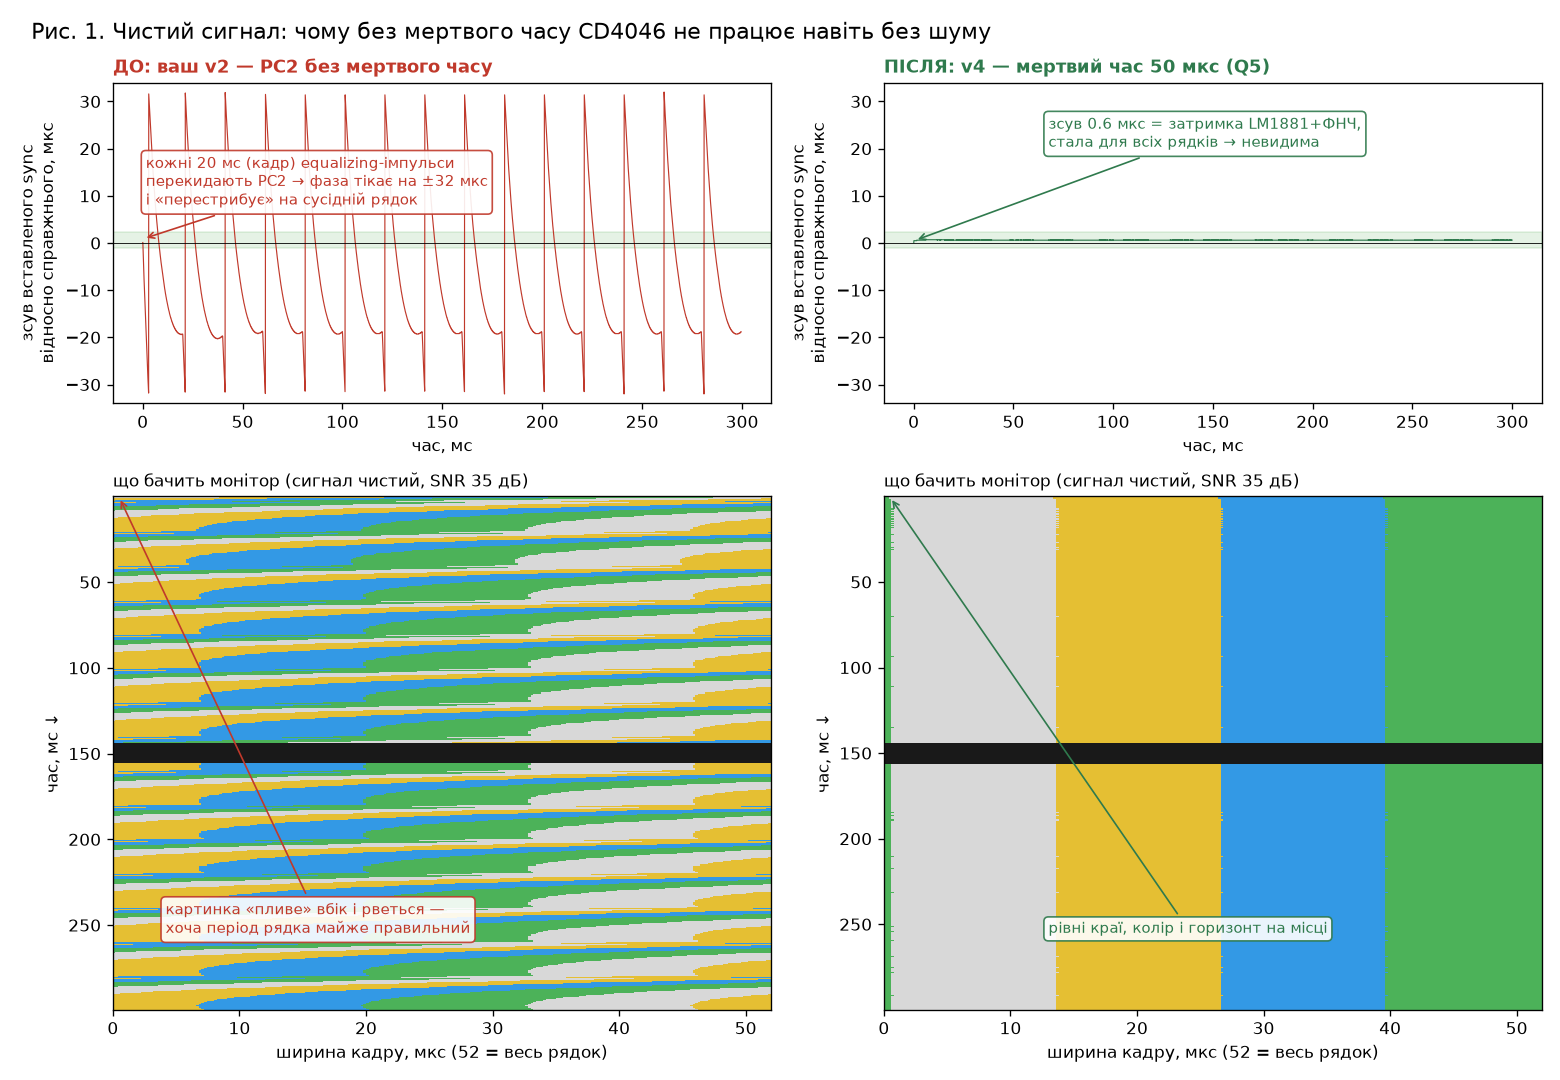
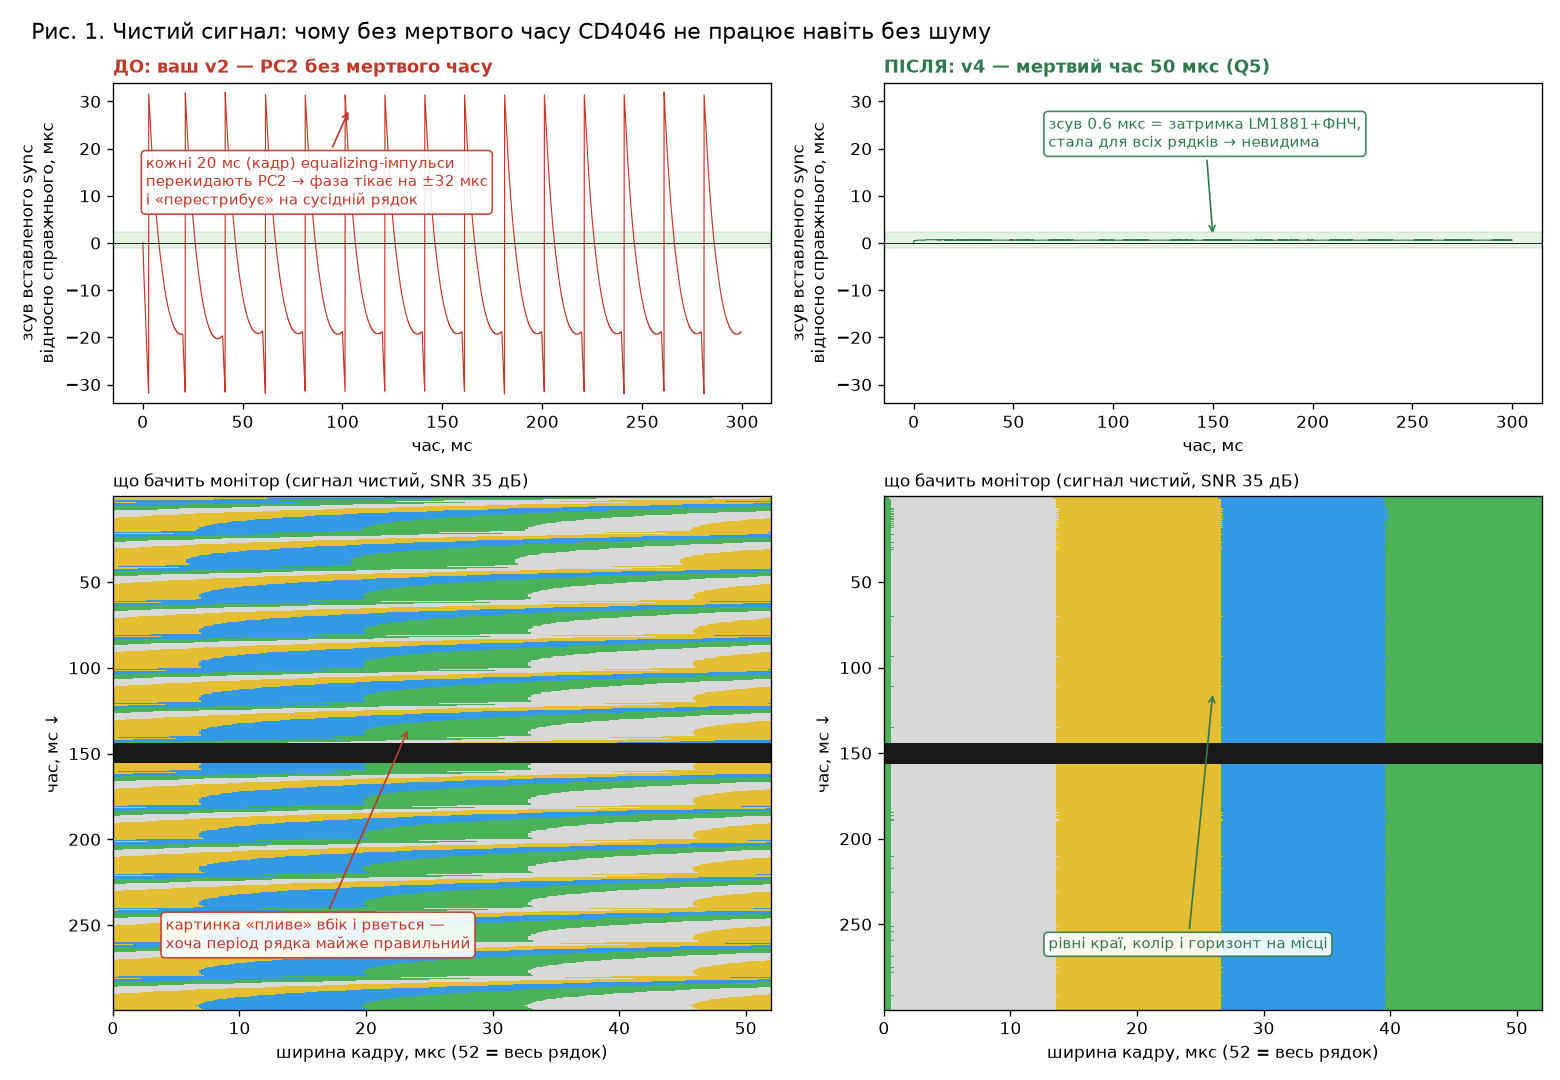
Fix annotation anchors on composite figures
Claude-Session: https://claude.ai/code/session_0153a1RiVx8dyRJS5VkSszgM

Changed region(s): [[0.0923, 0.825, 0.3077, 0.8861], [0.6462, 0.825, 0.8615, 0.8861]]

diff --git a/analog-video-sync-recovery/simulation/make_figures.py b/analog-video-sync-recovery/simulation/make_figures.py
@@ -39,7 +39,7 @@ def panel_screen(ax,d,title):
     return blue.sum()
 
 def note(ax,txt,xy,xytext,color="#C0392B"):
-    ax.annotate(txt,xy=xy,xytext=xytext,textcoords="axes fraction",fontsize=9,color=color,
+    ax.annotate(txt,xy=xy,xycoords="axes fraction",xytext=xytext,textcoords="axes fraction",fontsize=9,color=color,
                 arrowprops=dict(arrowstyle="->",color=color,lw=1),bbox=dict(boxstyle="round,pad=.3",fc="white",ec=color,alpha=.9))
 
 # ---------- Рис. 1: чистий сигнал, до/після (мертвий час) ----------
@@ -51,10 +51,10 @@ for j,(d,ttl,c) in enumerate([(A0,"ДО: ваш v2 — PC2 без мертвог
     ax[0,j].set_title(ttl,fontsize=11,fontweight="bold",loc="left",color=c); ax[0,j].set_ylabel("зсув вставленого sync\nвідносно справжнього, мкс"); ax[0,j].set_xlabel("час, мс")
     ax[0,j].axhline(0,color="k",lw=.5)
     panel_screen(ax[1,j],d,"що бачить монітор (сигнал чистий, SNR 35 дБ)")
-note(ax[0,0],"кожні 20 мс (кадр) equalizing-імпульси\nперекидають PC2 → фаза тікає на ±32 мкс\nі «перестрибує» на сусідній рядок",(0.35,0.9),(0.05,0.62))
-note(ax[0,1],"зсув 0.6 мкс = затримка LM1881+ФНЧ,\nстала для всіх рядків → невидима",(0.5,0.53),(0.25,0.8),"#2F7A4D")
-note(ax[1,0],"картинка «пливе» вбік і рветься —\nхоча період рядка майже правильний",(0.5,0.5),(0.08,0.15))
-note(ax[1,1],"рівні краї, колір і горизонт на місці",(0.5,0.6),(0.25,0.15),"#2F7A4D")
+note(ax[0,0],"кожні 20 мс (кадр) equalizing-імпульси\nперекидають PC2 → фаза тікає на ±32 мкс\nі «перестрибує» на сусідній рядок",(0.36,0.92),(0.05,0.62))
+note(ax[0,1],"зсув 0.6 мкс = затримка LM1881+ФНЧ,\nстала для всіх рядків → невидима",(0.5,0.52),(0.25,0.8),"#2F7A4D")
+note(ax[1,0],"картинка «пливе» вбік і рветься —\nхоча період рядка майже правильний",(0.45,0.55),(0.08,0.12))
+note(ax[1,1],"рівні краї, колір і горизонт на місці",(0.5,0.62),(0.25,0.12),"#2F7A4D")
 fig.suptitle("Рис. 1. Чистий сигнал: чому без мертвого часу CD4046 не працює навіть без шуму",fontsize=13,x=0.02,ha="left")
 fig.tight_layout(); fig.savefig("results/FIG1_clean_before_after.png",dpi=120); plt.close(fig)
 
@@ -70,12 +70,12 @@ for j,(d,ttl,c) in enumerate([(BW,"ДО: VCO 10–20 кГц (як у v2)","#C039
     ax[1,j].plot(tm,d["err"],lw=.7,color=c); ax[1,j].axhspan(-5,5,color="g",alpha=.1); ax[1,j].set_ylim(-20,48); ax[1,j].set_ylabel("похибка періоду рядка, %"); ax[1,j].axvspan(100,200,color="0.6",alpha=.25)
     nb=panel_screen(ax[2,j],d,"що бачить монітор (100–200 мс: сигналу немає, на вході сніг)")
     ax[1,j].set_xlabel("час, мс")
-note(ax[0,0],"сірий = пропадання: шум накачує PC2,\nVCO падає до 10.9 кГц (−30 %)",(0.55,0.15),(0.05,0.75))
-note(ax[0,1],"той самий шум, але діапазон VCO\nне пускає далі ніж −2 %",(0.6,0.42),(0.05,0.15),"#2F7A4D")
-note(ax[1,0],"32 рядки підряд поза ±5 % →\nдекодер втрачає lock → синій екран",(0.5,0.6),(0.05,0.85))
-note(ax[1,1],"макс. 2 % — картинка злегка скошена,\nале декодер тримає",(0.6,0.55),(0.3,0.85),"#2F7A4D")
-note(ax[2,0],"синій екран і ще ~50 мс\nхаосу після повернення сигналу",(0.5,0.5),(0.1,0.12))
-note(ax[2,1],"сніг замість синього;\n~50 мс «хитання» після повернення, далі картинка на місці",(0.5,0.72),(0.05,0.9),"#2F7A4D")
+note(ax[0,0],"сірий = пропадання: шум накачує PC2,\nVCO падає до 10.9 кГц (−30 %)",(0.6,0.12),(0.05,0.72))
+note(ax[0,1],"той самий шум, але діапазон VCO\nне пускає далі ніж −2 %",(0.6,0.7),(0.05,0.15),"#2F7A4D")
+note(ax[1,0],"32 рядки підряд поза ±5 % →\nдекодер втрачає lock → синій екран",(0.45,0.55),(0.03,0.85))
+note(ax[1,1],"макс. 2 % — картинка злегка скошена,\nале декодер тримає",(0.6,0.33),(0.3,0.85),"#2F7A4D")
+note(ax[2,0],"синій екран і ще ~50 мс\nхаосу після повернення сигналу",(0.5,0.5),(0.08,0.12))
+note(ax[2,1],"сніг замість синього;\n~50 мс «хитання» після повернення, далі картинка на місці",(0.5,0.5),(0.05,0.9),"#2F7A4D")
 fig.suptitle("Рис. 2. Пропадання сигналу на 100 мс (5 кадрів): чому діапазон VCO треба обмежити",fontsize=13,x=0.02,ha="left")
 fig.tight_layout(); fig.savefig("results/FIG2_dropout_before_after.png",dpi=120); plt.close(fig)
 
@@ -92,9 +92,9 @@ for j,(d,ttl,sub) in enumerate([(C,"SNR падає 35 → 3 дБ за 300 мс",
         if a[k]>=0.5 and a[k-1]<0.5: ax[0,j].axvspan(t0,t[k],color="0.6",alpha=.25)
     panel_screen(ax[1,j],d,"екран: "+sub)
     ax[0,j].set_xlabel("час, мс")
-note(ax[0,0],"до ~SNR 10 дБ VCO не рухається;\nдалі шумові фронти у вікні 14 мкс\nтягнуть на −2 % за 100 мс",(0.75,0.4),(0.05,0.12),"#2F7A4D")
-note(ax[0,1],"у тиші PC2 «тримає низ» →\nсповзає до fmin = 15.3 кГц (−2 %),\nце межа, далі не піде",(0.6,0.15),(0.05,0.8),"#2F7A4D")
-note(ax[0,2],"кожне пропадання: ≤1.5 % дрейфу\nі 35 мс на повернення",(0.5,0.8),(0.05,0.12),"#2F7A4D")
+note(ax[0,0],"до ~SNR 10 дБ VCO не рухається;\nдалі шумові фронти у вікні 14 мкс\nтягнуть на −2 % за 100 мс",(0.85,0.3),(0.05,0.12),"#2F7A4D")
+note(ax[0,1],"у тиші PC2 «тримає низ» →\nсповзає до fmin = 15.3 кГц (−2 %),\nце межа, далі не піде",(0.6,0.36),(0.05,0.8),"#2F7A4D")
+note(ax[0,2],"кожне пропадання: ≤1.5 % дрейфу\nі 35 мс на повернення",(0.45,0.38),(0.05,0.12),"#2F7A4D")
 fig.suptitle("Рис. 3. v4 у трьох складних сценаріях: жодного синього екрана, ціна — легкий скіс на час пропадання",fontsize=13,x=0.02,ha="left")
 fig.tight_layout(); fig.savefig("results/FIG3_v4_hard_cases.png",dpi=120); plt.close(fig)
 print("done")
